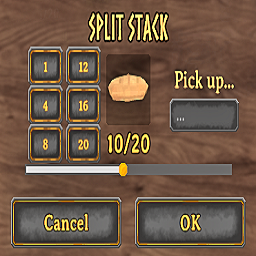
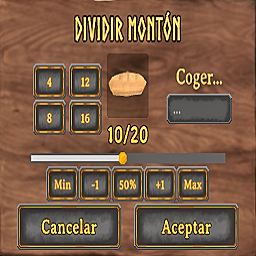
Updating to version 1.0.3

diff --git a/BetterSplitDialog/MODGEN/README.md b/BetterSplitDialog/MODGEN/README.md
@@ -6,13 +6,13 @@ Showcase link: https://www.youtube.com/shorts/_XAgjEDanu0
 
 Mod to type exact amount and have more options on the split dialog when manipulating stacks in your inventory or chests.
 
-![](https://i.imgur.com/MymE4JW.png)
+![](https://i.imgur.com/CYjYs1Y.png)
 
 [ESP]
 
 Mod para escribir exactactamente la cantidad a coger del stack de objetos y tener más opciones para partirlo directamente además del slider.
 
-![](https://i.imgur.com/AlMSIPx.png)
+![](https://i.imgur.com/xoQHGqQ.png)
 
 # About myself
 
